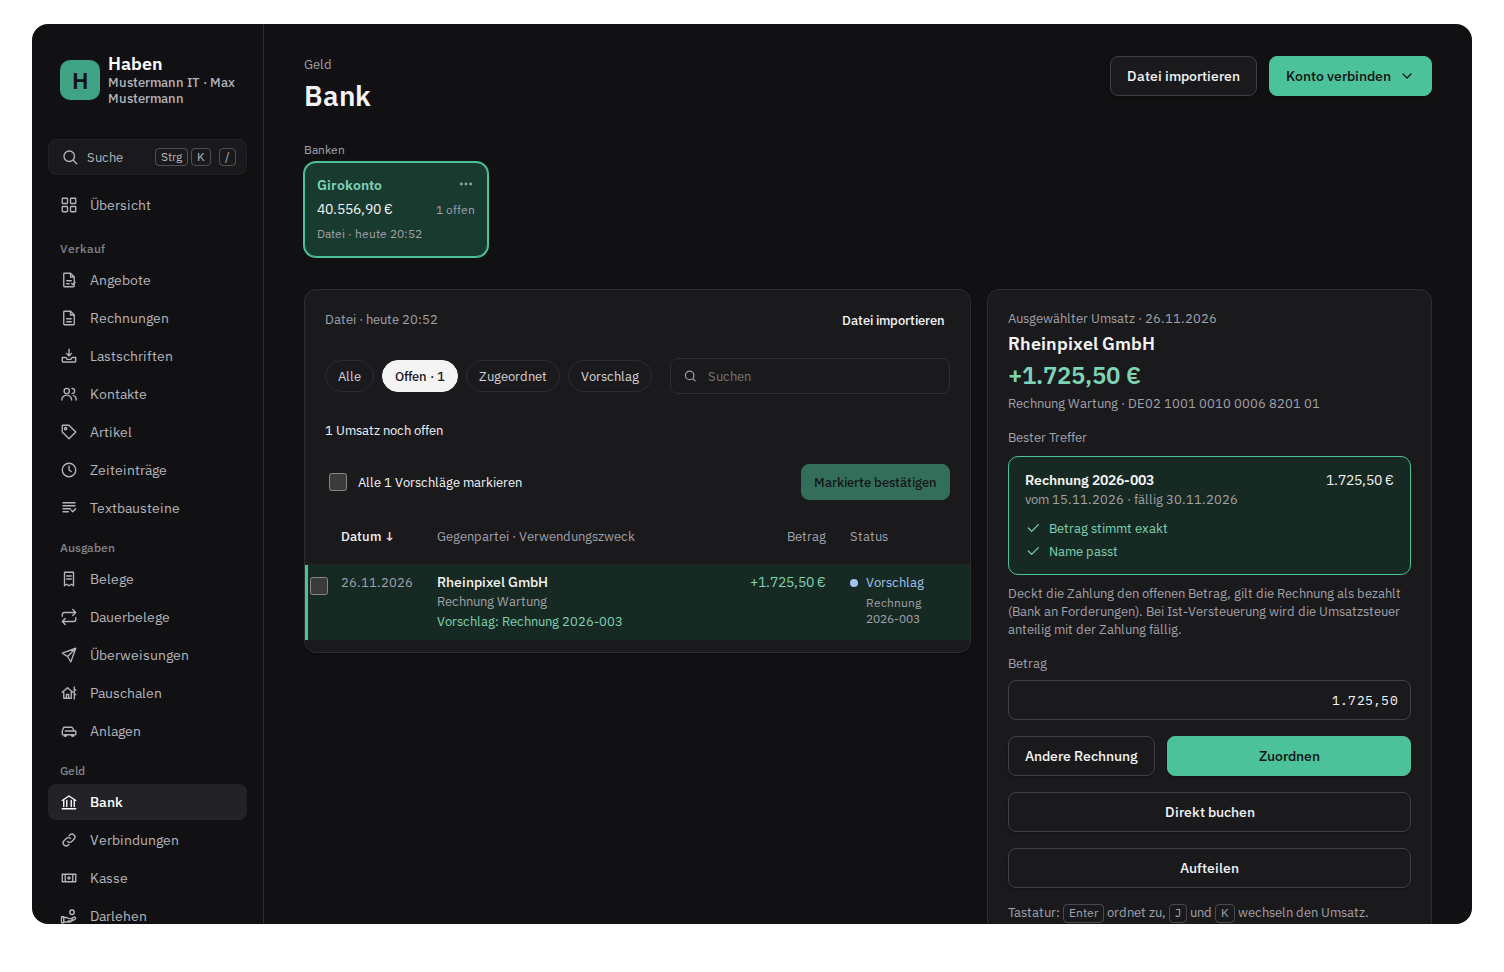
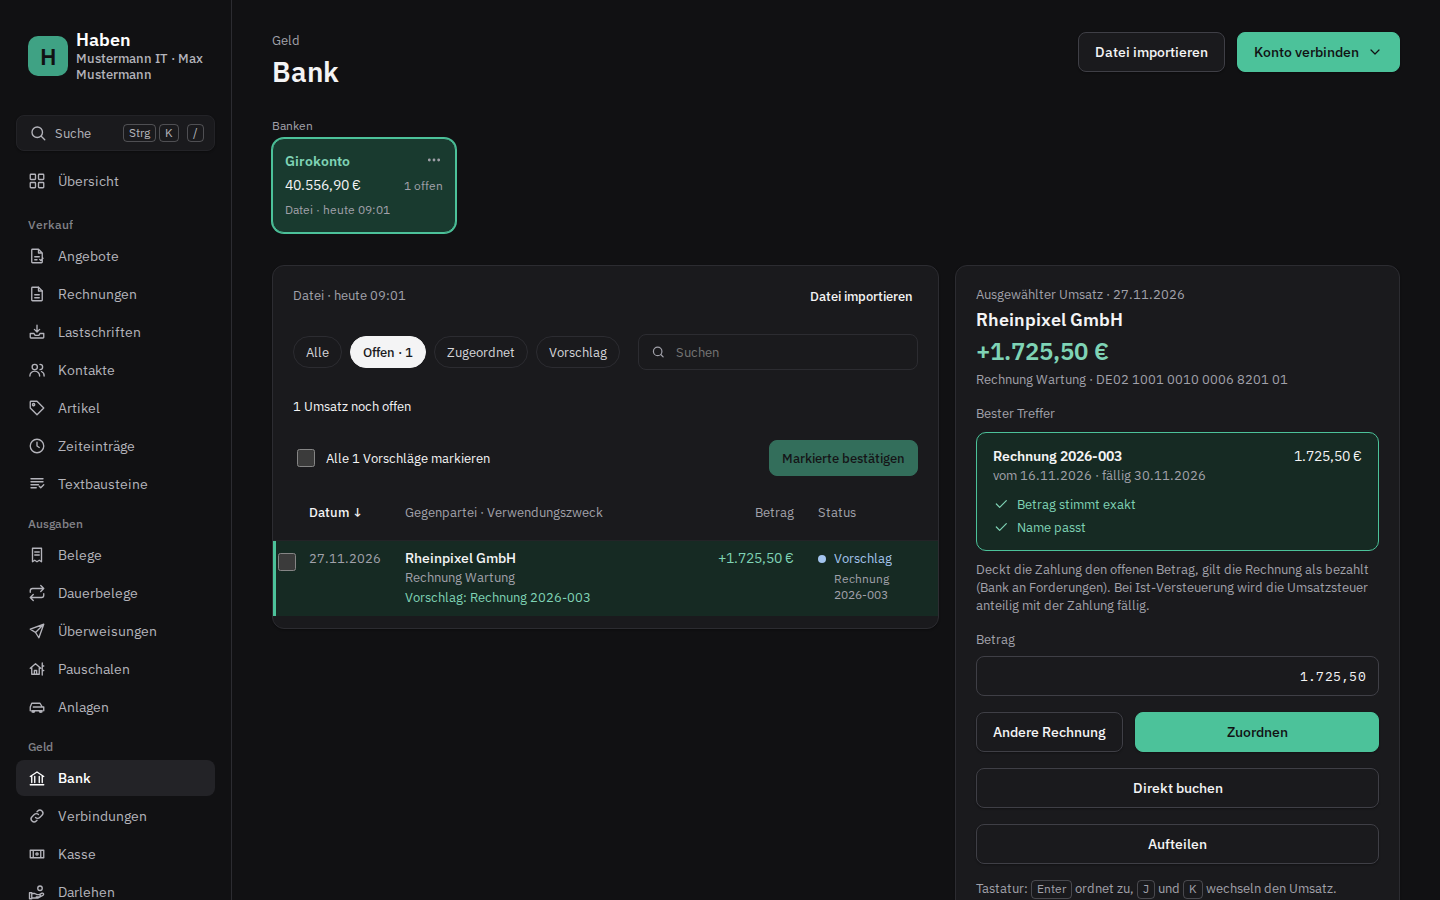
Doku: Screenshots und Hero ohne Rahmen im Bild (#2049)
## Was

Die Bilder in README und Doku haben keinen Rahmen mehr im PNG.
`bildrahmen.ts` fällt weg, ebenso der zweite Bildsatz in `ohne-rahmen/`
aus dem vorigen PR. Kante, Ecken und Schatten setzt die Doku per CSS,
wie vor dem Rahmen.

## Warum

Der Rahmen hatte einen transparenten Rand und war für GitHub gedacht.
Auf speicherstadt.org und teufel-it.de wurde dieser Rand beim Umwandeln
weiß und stand als weißer Rahmen in den Projektkarten. Kontext und die
anderen Projekte kommen ohne Rahmen aus; ein Bildsatz für alle ist
einfacher.

## Geprüft

- Workflow „Screenshots“ auf diesem Branch gelaufen: Alle Bilder sind
ohne Transparenz, 1440 breit (Handy 390).
- Doku lokal gebaut (Zensical) und die Startseite hell und dunkel im
Browser angesehen: hell Kante und Schatten, dunkel feine helle Kante und
Schein.
- Vorschaubild (und bei Haben der Hero) angesehen, die Ausschnitte
sitzen.

🤖 Generated with [Claude Code](https://claude.com/claude-code)

---------

diff --git a/apps/web/e2e/zz-doku-screenshots.spec.ts b/apps/web/e2e/zz-doku-screenshots.spec.ts
@@ -1,10 +1,9 @@
-import { mkdir, writeFile } from "node:fs/promises";
-import { type Browser, expect, test, type Page } from "@playwright/test";
+import { writeFile } from "node:fs/promises";
+import { expect, test, type Page } from "@playwright/test";
 import postgres from "postgres";
 import { day, fullPageScreenshot, USER, vorschauAnheften, YEAR } from "./daten.ts";
 import { databaseUrlFuer } from "./durchlaeufe.ts";
 import { dkb, kundeWaehlen, type Rechnung, rechnungFestschreiben } from "./einrichtung.ts";
-import { mitRahmen } from "./bildrahmen.ts";
 
 /**
  * Die Bilder in README und Doku (docs/screenshot-*.png), aufgenommen mit den Daten, die app.spec.ts
@@ -21,20 +20,12 @@ test.describe.configure({ mode: "serial" });
 test.skip(!process.env.DOKU_SCREENSHOTS, "nur für bun run docs:screenshots");
 
 const DOCS = "../../docs";
-/**
- * Dieselben Bilder ohne Rahmen für Webseiten, die eigenes CSS haben (speicherstadt.org, teufel-it.de): Dort würde der
- * transparente Rand beim Umwandeln weiß und stünde als Rahmen in der Karte.
- */
-const OHNE_RAHMEN = `${DOCS}/ohne-rahmen`;
 const DESKTOP = { width: 1440, height: 900 };
 const MOBIL = { width: 390, height: 844 };
 
 let page: Page;
-let browserFuerRahmen: Browser;
 
 test.beforeAll(async ({ browser }) => {
-  browserFuerRahmen = browser;
-  await mkdir(OHNE_RAHMEN, { recursive: true });
   page = await browser.newPage({ viewport: DESKTOP, locale: "de-DE", timezoneId: "Europe/Berlin" });
   // Das Bild „Rechnung schreiben mit Vorschau“ zeigt Formular und Vorschau nebeneinander
   await vorschauAnheften(page);
@@ -82,8 +73,8 @@ async function einrichtungshinweiseAusblenden() {
 }
 
 /**
- * Jedes Bild in Wald hell und dunkel; README und Doku zeigen das passende zur Systemeinstellung, beide mit Rahmen
- * (bildrahmen.ts). Daneben dasselbe Bild ohne Rahmen in docs/ohne-rahmen/ für Webseiten.
+ * Jedes Bild in Wald hell und dunkel; README und Doku zeigen das passende zur Systemeinstellung. Ohne Rahmen im Bild:
+ * So nehmen auch Webseiten mit eigenem CSS (speicherstadt.org, teufel-it.de) die Bilder, wie sie sind.
  */
 async function shot(name: string, fullPage = false) {
   await einrichtungshinweiseAusblenden();
@@ -95,9 +86,7 @@ async function shot(name: string, fullPage = false) {
     // Kein blinkender Cursor, keine halb abgelaufene Animation im Bild
     const options = { animations: "disabled", caret: "hide" } as const;
     const png = await (fullPage ? fullPageScreenshot(page, options) : page.screenshot(options));
-    const radius = page.viewportSize()?.width === MOBIL.width ? 36 : 16;
-    await writeFile(`${OHNE_RAHMEN}/screenshot-${name}${suffix}.png`, png);
-    await writeFile(`${DOCS}/screenshot-${name}${suffix}.png`, await mitRahmen(browserFuerRahmen, png, id === "dark" ? "dunkel" : "hell", { radius }));
+    await writeFile(`${DOCS}/screenshot-${name}${suffix}.png`, png);
   }
   await theme("light");
 }
@@ -262,7 +251,7 @@ test("Umsatzsteuer, Auswertungen und Archiv", async () => {
   await go("/auswertungen");
   await shot("auswertungen");
   await go("/archiv");
-  // Der obere Teil für die Startseite der Doku, mit eigenem Rahmen; die ganze Seite für die übrigen Seiten
+  // Der obere Teil für die Startseite der Doku; die ganze Seite für die übrigen Seiten
   await shot("archiv-oben");
   await shot("archiv", true);
 });

diff --git a/docs/assets/stylesheets/startseite.css b/docs/assets/stylesheets/startseite.css
@@ -35,31 +35,32 @@
   color: var(--md-primary-fg-color--light);
 }
 
-/* Die Bilder tragen ihre Größe, damit die Seite beim Laden nicht springt; Rahmen und Ecken stecken im Bild (extra.css) */
+/* Die Bilder tragen ihre Größe, damit die Seite beim Laden nicht springt. Hell schweben sie mit Kante und Schatten
+   über der Seite; dunkel tragen Kante und Schein aus extra.css */
 .md-typeset .showcase-shot img,
 .md-typeset .showcase-phone img {
   display: block;
   height: auto;
+  border-radius: 0.6rem;
+}
+
+[data-md-color-scheme="default"] .md-typeset .showcase-shot img,
+[data-md-color-scheme="default"] .md-typeset .showcase-phone img {
+  box-shadow: 0 0 0 1px var(--md-default-fg-color--lightest), 0 0.8rem 2.4rem rgb(0 0 0 / 14%);
 }
 
 .md-typeset .showcase-shot--hero img {
   margin: 0 auto 1rem;
 }
 
-/* Hell: die Bilder schweben über der Seite. drop-shadow folgt der Kontur im Bild, nicht dem transparenten Rand;
-   im dunklen Schema trägt der Schein im Bild */
-[data-md-color-scheme="default"] .md-typeset .showcase-shot img,
-[data-md-color-scheme="default"] .md-typeset .showcase-phone img {
-  filter: drop-shadow(0 0.8rem 2.4rem rgb(0 0 0 / 14%));
-}
-
 [data-md-color-scheme="default"] .md-typeset .showcase-shot--hero img {
-  filter: drop-shadow(0 1.2rem 3.2rem rgb(0 0 0 / 22%));
+  box-shadow: 0 0 0 1px var(--md-default-fg-color--lightest), 0 1.2rem 3.2rem rgb(0 0 0 / 22%);
 }
 
 .md-typeset .showcase-phone img {
   max-width: 16rem;
   margin: 0 auto;
+  border-radius: 1.4rem;
 }
 
 .showcase-feature {

diff --git a/docs/assets/stylesheets/extra.css b/docs/assets/stylesheets/extra.css
@@ -11,7 +11,7 @@
   --md-accent-fg-color: #3fa284;
   --md-accent-fg-color--transparent: rgba(63, 162, 132, .15);
 }
-/* Bilder: Ecken und Schatten, nie breiter als der Text; Screenshots und Hero bringen ihren Rahmen selbst mit (unten) */
+/* Bilder: Ecken und Schatten, nie breiter als der Text */
 .md-typeset img {
   max-width: 100%;
   height: auto;
@@ -77,12 +77,4 @@
    weicher Schein wie um das Zeichen der Firma in der App (.brand-mark-kante) */
 [data-md-color-scheme="slate"] .md-typeset img {
   box-shadow: 0 0 0 1px rgb(255 255 255 / .16), 0 0 20px 1px rgb(255 255 255 / .08);
-}
-/* Screenshots und Hero bringen Kante, Schatten oder Schein und Ecken im Bild mit, für GitHub
-   (apps/web/e2e/bildrahmen.ts); um sie kein zweiter Rahmen */
-.md-typeset img[src*="screenshot-"],
-.md-typeset img[src*="hero-"] {
-  border: 0;
-  border-radius: 0;
-  box-shadow: none;
 }

diff --git a/docs/index.md b/docs/index.md
@@ -29,8 +29,8 @@ E-Rechnung bis zur Voranmeldung an ELSTER, ohne Abo.</p>
 </div>
 
 <div class="showcase-shot showcase-shot--hero" markdown>
-![Übersicht in Haben: offene Forderungen, Umsatz, Umsatzsteuer-Zahllast, Kontostand und die nächsten Aufgaben](screenshot-uebersicht.png#only-light){ width="1504" height="972" }
-![Übersicht in Haben: offene Forderungen, Umsatz, Umsatzsteuer-Zahllast, Kontostand und die nächsten Aufgaben](screenshot-uebersicht-dunkel.png#only-dark){ width="1504" height="972" }
+![Übersicht in Haben: offene Forderungen, Umsatz, Umsatzsteuer-Zahllast, Kontostand und die nächsten Aufgaben](screenshot-uebersicht.png#only-light){ width="1440" height="900" }
+![Übersicht in Haben: offene Forderungen, Umsatz, Umsatzsteuer-Zahllast, Kontostand und die nächsten Aufgaben](screenshot-uebersicht-dunkel.png#only-dark){ width="1440" height="900" }
 </div>
 
 <div class="showcase-feature" id="rundgang" markdown>
@@ -46,8 +46,8 @@ Rechnungen, Mahnungen und Versand per E-Mail gehören dazu.
 [Rechnungen und E-Rechnung](rechnungen.md)
 </div>
 <div class="showcase-shot" markdown>
-![Rechnungseditor mit Positionen links und Live-Vorschau des PDFs rechts](screenshot-rechnung.png#only-light){ width="1504" height="972" loading="lazy" }
-![Rechnungseditor mit Positionen links und Live-Vorschau des PDFs rechts](screenshot-rechnung-dunkel.png#only-dark){ width="1504" height="972" loading="lazy" }
+![Rechnungseditor mit Positionen links und Live-Vorschau des PDFs rechts](screenshot-rechnung.png#only-light){ width="1440" height="900" loading="lazy" }
+![Rechnungseditor mit Positionen links und Live-Vorschau des PDFs rechts](screenshot-rechnung-dunkel.png#only-dark){ width="1440" height="900" loading="lazy" }
 </div>
 </div>
 
@@ -64,8 +64,8 @@ Du prüfst, wählst die Kategorie und buchst.
 [Belege](belege.md)
 </div>
 <div class="showcase-shot" markdown>
-![Gebuchte Mobilfunkrechnung der Funknetz Mobil GmbH: links das Original, rechts Lieferant, Kategorie und Beträge je Steuersatz](screenshot-belege.png#only-light){ width="1504" height="972" loading="lazy" }
-![Gebuchte Mobilfunkrechnung der Funknetz Mobil GmbH: links das Original, rechts Lieferant, Kategorie und Beträge je Steuersatz](screenshot-belege-dunkel.png#only-dark){ width="1504" height="972" loading="lazy" }
+![Gebuchte Mobilfunkrechnung der Funknetz Mobil GmbH: links das Original, rechts Lieferant, Kategorie und Beträge je Steuersatz](screenshot-belege.png#only-light){ width="1440" height="900" loading="lazy" }
+![Gebuchte Mobilfunkrechnung der Funknetz Mobil GmbH: links das Original, rechts Lieferant, Kategorie und Beträge je Steuersatz](screenshot-belege-dunkel.png#only-dark){ width="1440" height="900" loading="lazy" }
 </div>
 </div>
 
@@ -82,8 +82,8 @@ Rechnungsnummer, IBAN, Name.
 [Bankimport und Abgleich](bank.md)
 </div>
 <div class="showcase-shot" markdown>
-![Bankabgleich: Umsatz von Rheinpixel GmbH mit dem besten Treffer Rechnung 2026-033 und den Gründen](screenshot-bank.png#only-light){ width="1504" height="972" loading="lazy" }
-![Bankabgleich: Umsatz von Rheinpixel GmbH mit dem besten Treffer Rechnung 2026-033 und den Gründen](screenshot-bank-dunkel.png#only-dark){ width="1504" height="972" loading="lazy" }
+![Bankabgleich: Umsatz von Rheinpixel GmbH mit dem besten Treffer Rechnung 2026-033 und den Gründen](screenshot-bank.png#only-light){ width="1440" height="900" loading="lazy" }
+![Bankabgleich: Umsatz von Rheinpixel GmbH mit dem besten Treffer Rechnung 2026-033 und den Gründen](screenshot-bank-dunkel.png#only-dark){ width="1440" height="900" loading="lazy" }
 </div>
 </div>
 
@@ -99,8 +99,8 @@ Gesendet wird direkt per ERiC an ELSTER oder, ganz ohne Hersteller-ID, über Mei
 [Umsatzsteuer-Voranmeldung](umsatzsteuer.md)
 </div>
 <div class="showcase-shot" markdown>
-![Voranmeldung September mit Kennzahlen 81, 86, 66 und 83 und dem Bereich zum Übermitteln an ELSTER](screenshot-umsatzsteuer.png#only-light){ width="1504" height="972" loading="lazy" }
-![Voranmeldung September mit Kennzahlen 81, 86, 66 und 83 und dem Bereich zum Übermitteln an ELSTER](screenshot-umsatzsteuer-dunkel.png#only-dark){ width="1504" height="972" loading="lazy" }
+![Voranmeldung September mit Kennzahlen 81, 86, 66 und 83 und dem Bereich zum Übermitteln an ELSTER](screenshot-umsatzsteuer.png#only-light){ width="1440" height="900" loading="lazy" }
+![Voranmeldung September mit Kennzahlen 81, 86, 66 und 83 und dem Bereich zum Übermitteln an ELSTER](screenshot-umsatzsteuer-dunkel.png#only-dark){ width="1440" height="900" loading="lazy" }
 </div>
 </div>
 
@@ -116,8 +116,8 @@ ganze Jahr als ZIP mit Prüfsummen – für die Aufbewahrung und für die Steuer
 [Auswertungen und Jahresexport](auswertungen.md)
 </div>
 <div class="showcase-shot" markdown>
-![Auswertungen 2026 mit Einnahmen, Ausgaben, Gewinn und Monatsdiagramm](screenshot-auswertungen.png#only-light){ width="1504" height="972" loading="lazy" }
-![Auswertungen 2026 mit Einnahmen, Ausgaben, Gewinn und Monatsdiagramm](screenshot-auswertungen-dunkel.png#only-dark){ width="1504" height="972" loading="lazy" }
+![Auswertungen 2026 mit Einnahmen, Ausgaben, Gewinn und Monatsdiagramm](screenshot-auswertungen.png#only-light){ width="1440" height="900" loading="lazy" }
+![Auswertungen 2026 mit Einnahmen, Ausgaben, Gewinn und Monatsdiagramm](screenshot-auswertungen-dunkel.png#only-dark){ width="1440" height="900" loading="lazy" }
 </div>
 </div>
 
@@ -134,8 +134,8 @@ dass alles da ist, bevor du kündigst.
 [Lexoffice](lexoffice.md) · [sevDesk](sevdesk.md) · [FastBill](fastbill.md) · [BuchhaltungsButler](buchhaltungsbutler.md) · [Accountable](accountable.md) · [CSV-Import](csv-import.md)
 </div>
 <div class="showcase-shot" markdown>
-![Archiv mit Umzug aus Lexware Office](screenshot-archiv-oben.png#only-light){ width="1504" height="972" loading="lazy" }
-![Archiv mit Umzug aus Lexware Office](screenshot-archiv-oben-dunkel.png#only-dark){ width="1504" height="972" loading="lazy" }
+![Archiv mit Umzug aus Lexware Office](screenshot-archiv-oben.png#only-light){ width="1440" height="900" loading="lazy" }
+![Archiv mit Umzug aus Lexware Office](screenshot-archiv-oben-dunkel.png#only-dark){ width="1440" height="900" loading="lazy" }
 </div>
 </div>
 
@@ -151,8 +151,8 @@ teilst du direkt hinein, die Übersicht hast du unterwegs dabei.
 [Als App installieren](einrichtung.md#als-app-installieren)
 </div>
 <div class="showcase-phone" markdown>
-![Übersicht auf dem Smartphone](screenshot-mobil.png#only-light){ width="454" height="916" loading="lazy" }
-![Übersicht auf dem Smartphone](screenshot-mobil-dunkel.png#only-dark){ width="454" height="916" loading="lazy" }
+![Übersicht auf dem Smartphone](screenshot-mobil.png#only-light){ width="390" height="844" loading="lazy" }
+![Übersicht auf dem Smartphone](screenshot-mobil-dunkel.png#only-dark){ width="390" height="844" loading="lazy" }
 </div>
 </div>
 

diff --git a/docs/entwicklung.md b/docs/entwicklung.md
@@ -135,7 +135,7 @@ Projektname und Ports gelten für jeden Befehl dieser Umgebung, auch für `run`,
 | `bun scripts/prs/rangliste.ts` | Vorschlag für die Rangliste der offenen Pull Requests (Skill `prs-abarbeiten`), mit `gh` |
 | `bun scripts/release/vorschau.ts` | Vorschau auf das nächste Release: Art, Commits, Issues, die es schließt, und Hinweise (Skill `release`), nur mit git |
 | `bun run docs:social-preview` | Rendert `scripts/social-preview/social-preview.html` nach `docs/social-preview.png` (1280 × 640, Bild für Settings → Social preview) |
-| `bun run docs:hero` | Rendert `scripts/hero/hero.html` nach `docs/hero-hell.png` und `docs/hero-dunkel.png` (1280 × 360 bei doppelter Auflösung, mit Rahmen wie die Screenshots, siehe [Bilder für README und Doku](#bilder-für-readme-und-doku); Bild oben in der README; Slogan in IBM Plex Serif aus `packages/einvoice/fonts`) |
+| `bun run docs:hero` | Rendert `scripts/hero/hero.html` nach `docs/hero-hell.png` und `docs/hero-dunkel.png` (1280 × 360 bei doppelter Auflösung, Bild oben in der README; Slogan in IBM Plex Serif aus `packages/einvoice/fonts`) |
 
 Seiten der Doku:
 
@@ -256,7 +256,7 @@ Die E2E-Jobs der CI laufen im Image `ghcr.io/speicherstadt/haben-ci` (`.github/c
 
 ### Bilder für README und Doku
 
-Die Bilder in README und Doku (`docs/screenshot-*.png`) nimmt `e2e/zz-doku-screenshots.spec.ts` mit den Daten von `app.spec.ts` auf; `bun run docs:screenshots` startet nur diese beiden Dateien, nicht die ganze Suite. Ohne `DOKU_SCREENSHOTS=1` überspringt sich die Spec, die CI wird also nicht langsamer. Jedes Bild entsteht in Wald hell und dunkel (`screenshot-<name>-dunkel.png`), mit Kante, Schatten (hell) oder Schein (dunkel) und transparentem Rand im Bild (`e2e/bildrahmen.ts`), weil GitHub kein CSS annimmt. Dasselbe Bild ohne Rahmen liegt in `docs/ohne-rahmen/`: Webseiten mit eigenem CSS (speicherstadt.org, teufel-it.de) nehmen diese, denn dort würde der transparente Rand beim Umwandeln weiß. Die README wählt per `<picture>` und `prefers-color-scheme`, die Doku per `#only-light` und `#only-dark`. Die Hinweise zur Einrichtung von ERiC und Hersteller-ID blendet die Spec aus, damit die Bilder Haben eingerichtet zeigen.
+Die Bilder in README und Doku (`docs/screenshot-*.png`) nimmt `e2e/zz-doku-screenshots.spec.ts` mit den Daten von `app.spec.ts` auf; `bun run docs:screenshots` startet nur diese beiden Dateien, nicht die ganze Suite. Ohne `DOKU_SCREENSHOTS=1` überspringt sich die Spec, die CI wird also nicht langsamer. Jedes Bild entsteht in Wald hell und dunkel (`screenshot-<name>-dunkel.png`), ohne Rahmen im Bild: Kante und Schatten setzt die Doku per CSS, und Webseiten mit eigenem CSS (speicherstadt.org, teufel-it.de) nehmen die Bilder, wie sie sind. Die README wählt per `<picture>` und `prefers-color-scheme`, die Doku per `#only-light` und `#only-dark`. Die Hinweise zur Einrichtung von ERiC und Hersteller-ID blendet die Spec aus, damit die Bilder Haben eingerichtet zeigen.
 
 ```sh
 E2E_DATABASE_URL=postgres://haben@localhost:5432/haben_e2e bun run docs:screenshots
